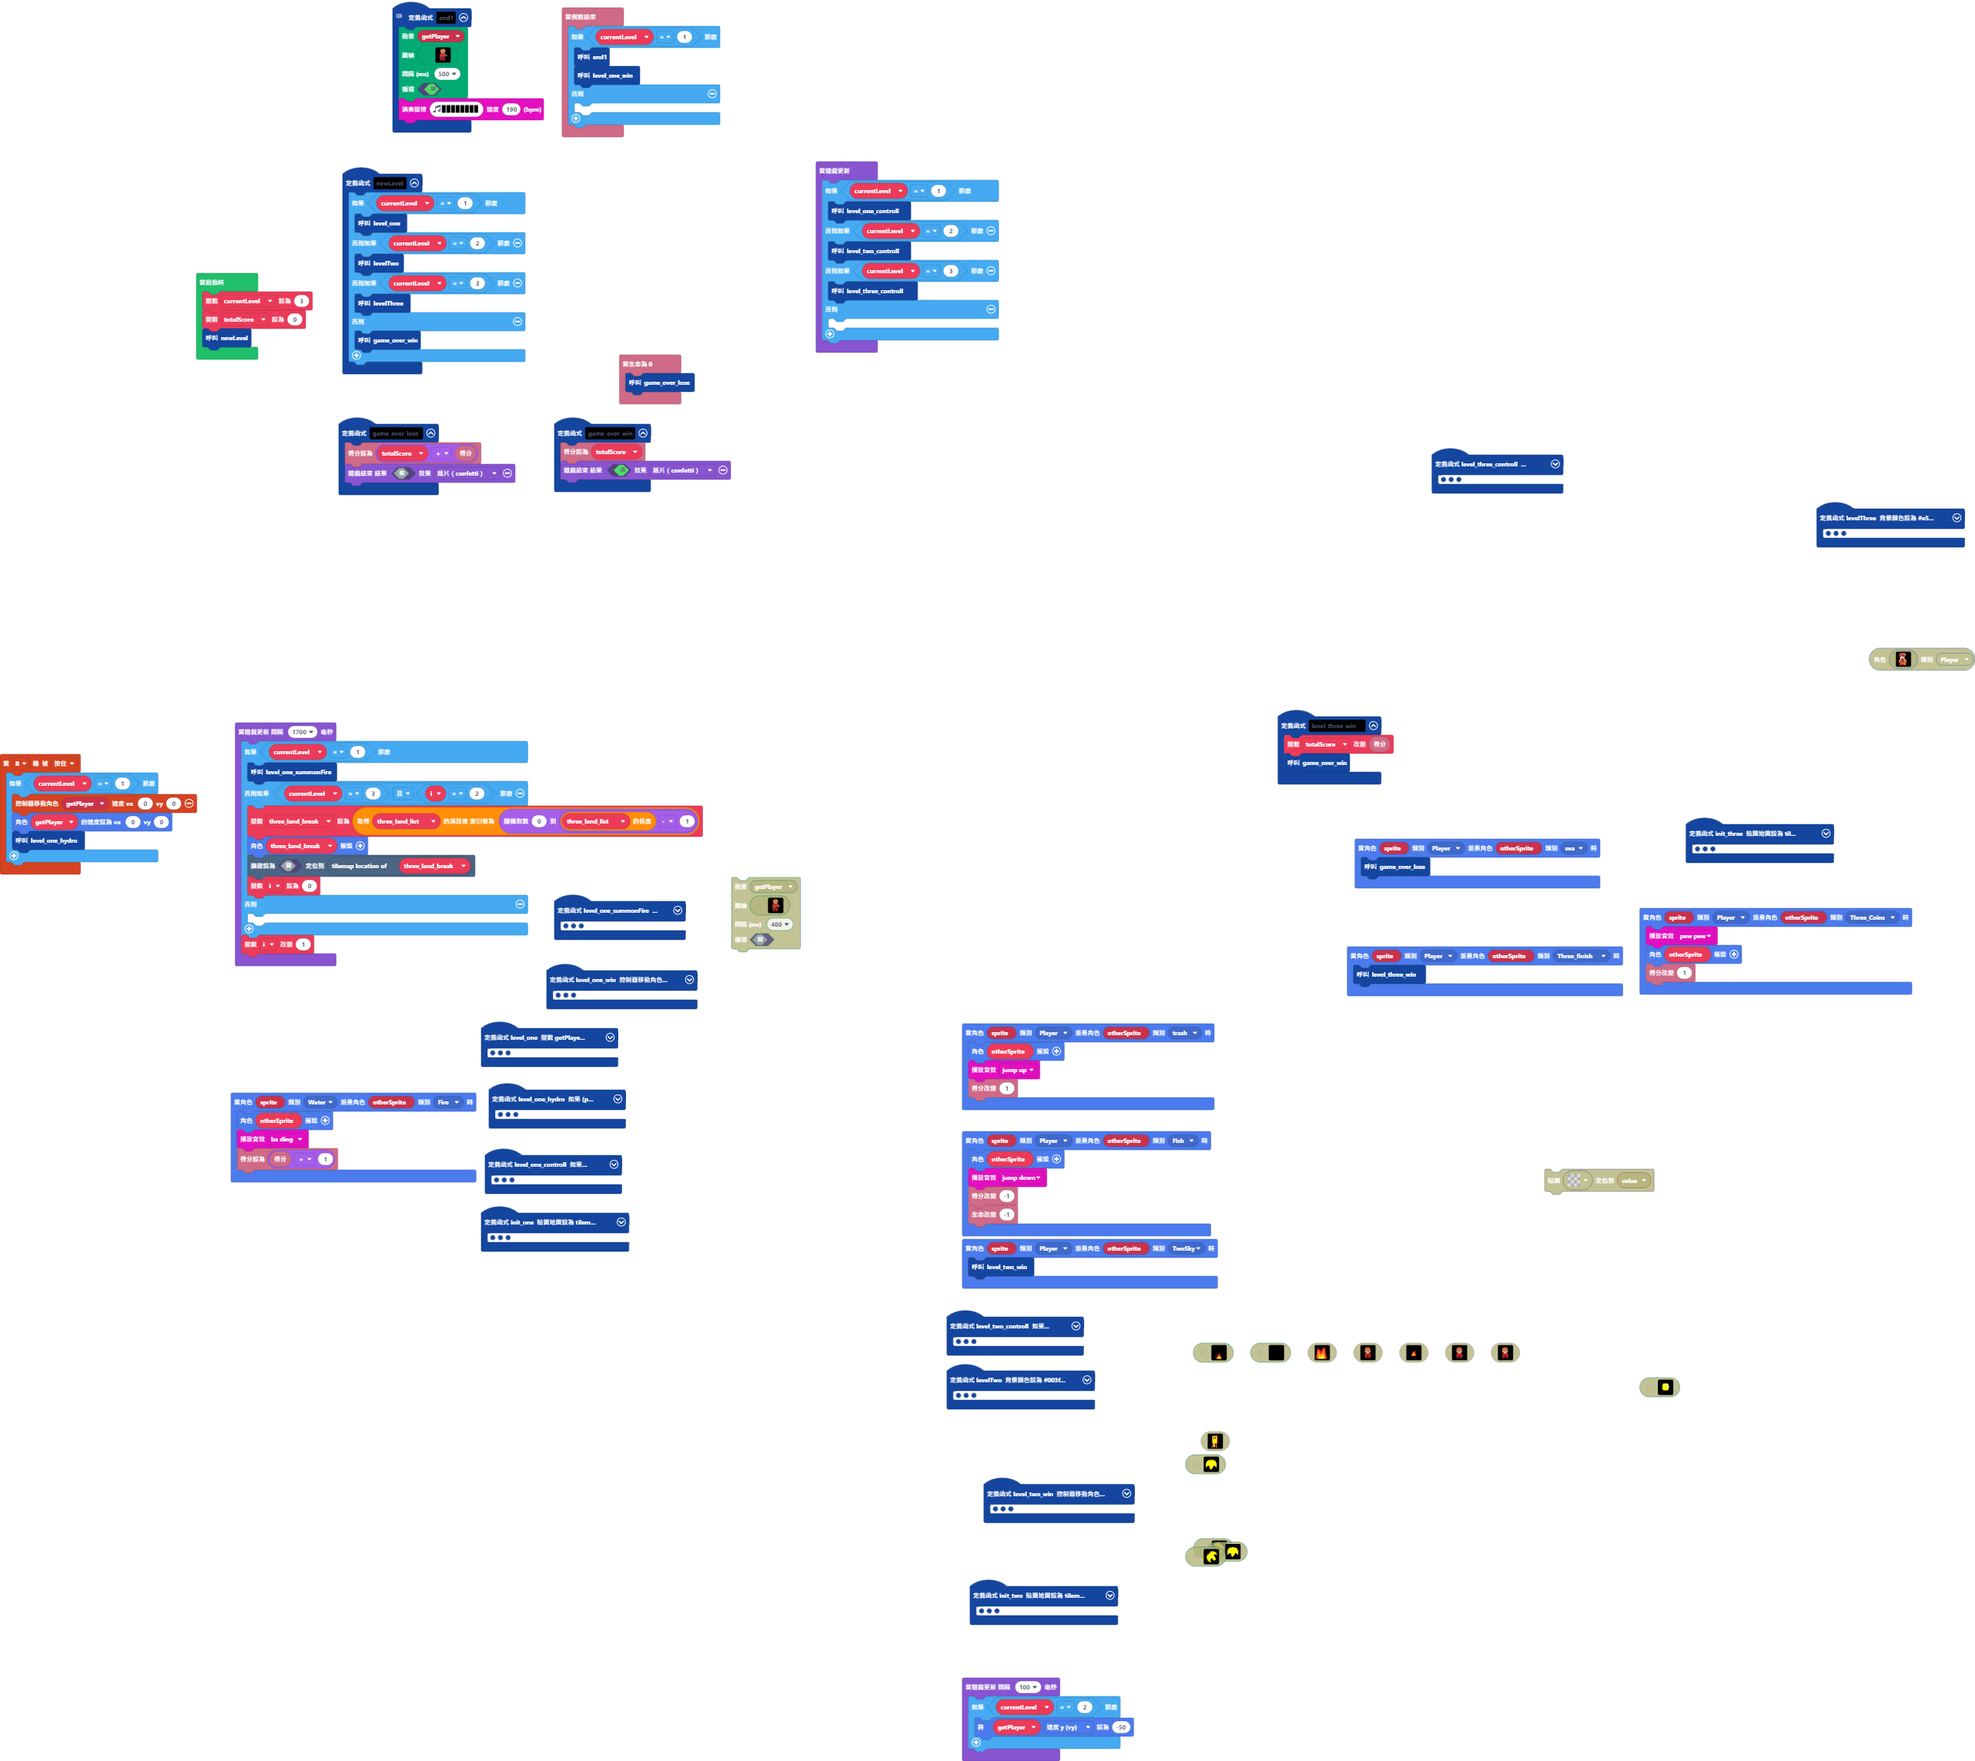
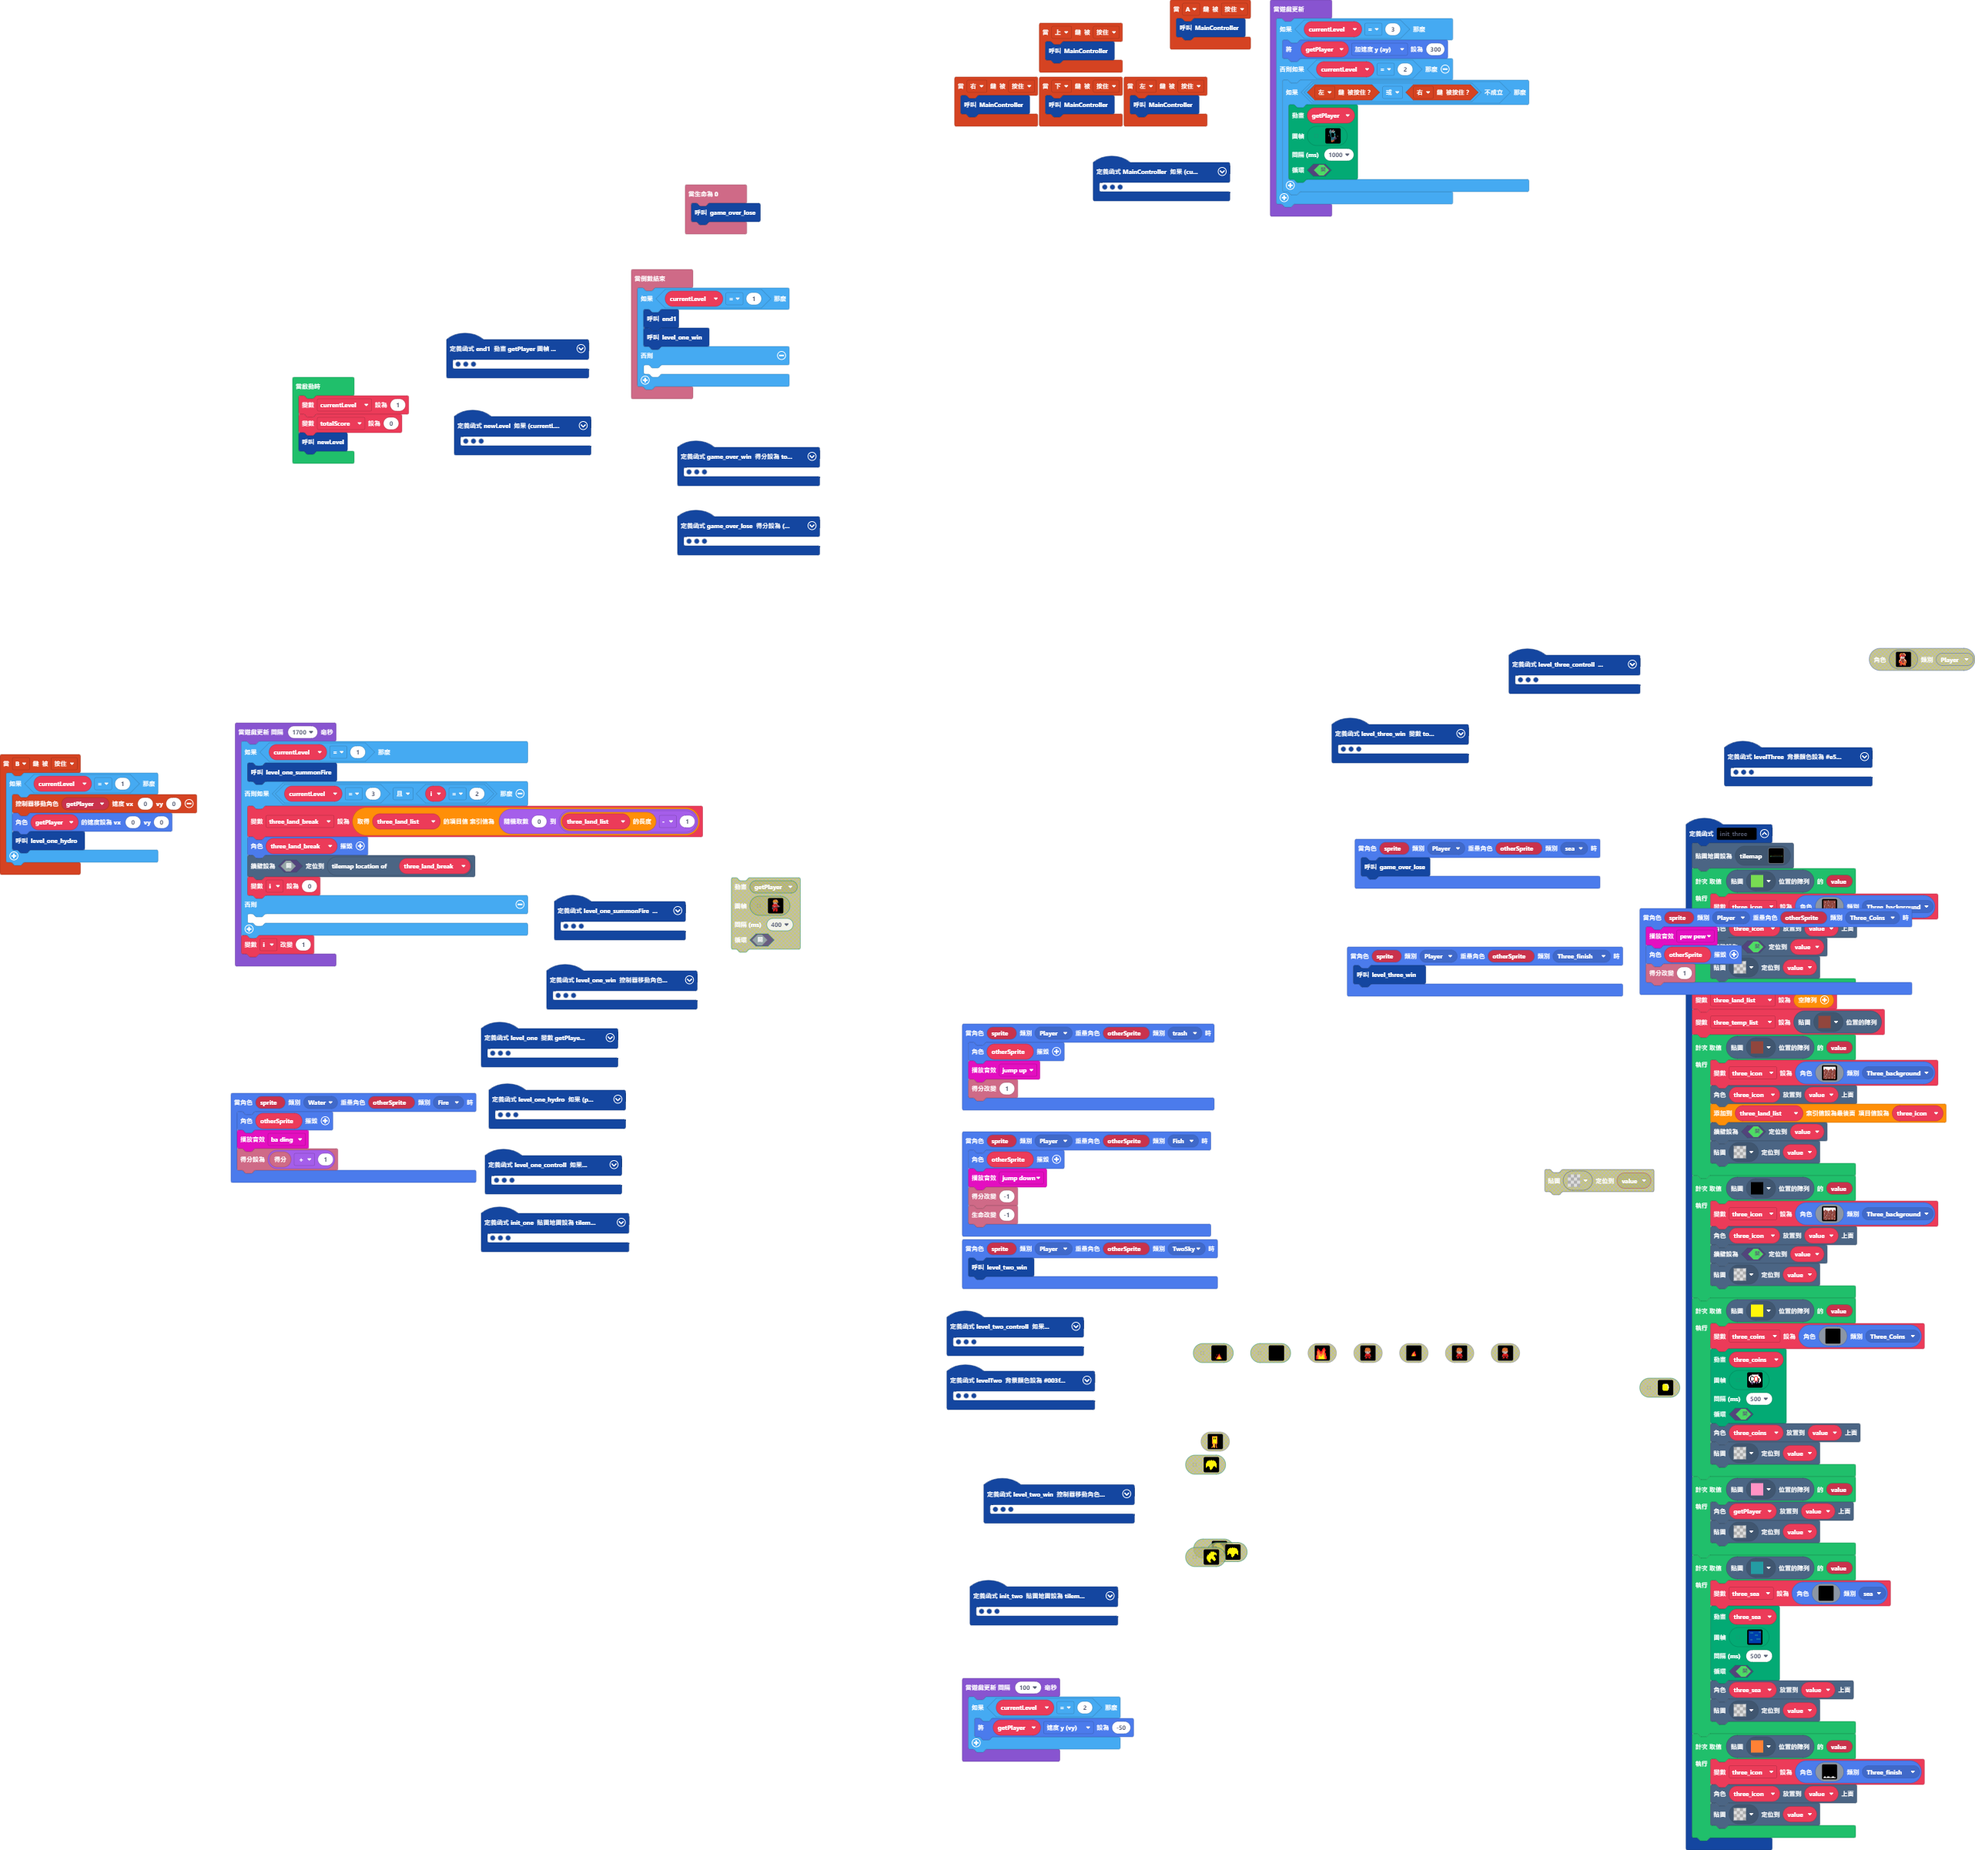
修改完成

diff --git a/tilemap.g.ts b/tilemap.g.ts
@@ -253,7 +253,11 @@ namespace myTiles {
 ................
 `, [myTiles.transparency16,myTiles.tile2,myTiles.tile4,myTiles.tile3,myTiles.tile1,myTiles.tile5,myTiles.tile6,myTiles.tile7], TileScale.Sixteen);
             case "層級6":
[1 lines of base64/hex data omitted]
+            case "層級6":return tiles.createTilemap(hex`500010000000000000000000000000000000000000000000000000000000000000000000000000000000000000000000000000000000000000000000000000000000000000000000000000000000000000000000000000000000000000000000000000000000000000000000000000000000000000000000000000000000000000000000000000000000000000000000000000000000000000000000000000000000000000000000000000000000000000000000000000000000000000000000000000000000000000000000000000000000000000000000000000000000000000000000000000000000000000000000000000000000000000000000000000000000000000000000000000000000000000000000000000000000000000000000000000000000000000000000000000000000000000000000000000000000000000000000000000000000000000000000000000000000000000000000000000000000000000000100000000000000000000000000000000000000000000000000000000000000000000000000000000000000000000000000000000000000000000000000000000000000000000000100000000000000000000000000000000000000000000030000000000000000030300000000000000000000000000000000000000000000000000000000000000000100000000000000000000000000000000000000000000000000000000000001000000000000000000010000000000000000000100000000000000010000000000000000000000000000000500000000000000000000000000000000000000000000000000000300000000000000000000000000000000000000000000000000000000000000000000030000000000000000000000000000000000000000000000000000000000000001000000030300000001000000000000000100000003030000000001000000000300000001000000000303000000000000000000000000000000000000000000000000000000000000000000000000000000000000000000000000000000000000000000000000000000000000000000000000000000000000000000000001000000000000000606060606070000000000000000000000000000010000000003030000000000000003030000000000000303000000000000000000030000000000000000030000010000000000000000000003030000070707070704070707070707070707070000000000000001000000000000000000000000000001000000000001000000000000000000000000010000000000000000000000000000030300000000000004040404040404040404040404040404000000000000000000000000000100000001000000000000000000000000000000010000000000000000000000000000000300000000000000000000000000000004040404040404040404040404000000000000000000030303000000000000000000000300030000000000030000000000000003030300000300000000000000000000030300000000000100000000000404040404040404040404000000000000000303000000000000000303000003030000000000000000000000000000000300000000000000000000000300000000000000000000000000000000000000040404040404040404040202020202020202020202020202020202020202020202020202020202020202020202020202020202020202020202020202020202020202020202020202020202020202020202040404`, img`
+................................................................................
+................................................................................
+................................................................................
+................................................................................
 ................................................................................
 ................................................................................
 ................................................................................

diff --git a/main.ts b/main.ts
@@ -343,7 +343,7 @@ function level_one () {
     )
     playerFace = 0
     init_one()
-    info.startCountdown(3)
+    info.startCountdown(36)
     info.setScore(0)
     scene.setBackgroundColor(9)
     scene.setBackgroundImage(img`
@@ -1314,6 +1314,9 @@ function game_over_lose () {
     info.setScore(totalScore + info.score())
     game.over(false, effects.confetti)
 }
+controller.A.onEvent(ControllerButtonEvent.Pressed, function () {
+    MainController()
+})
 function level_one_controll () {
     if (controller.left.isPressed()) {
         animation.runImageAnimation(
@@ -1592,6 +1595,17 @@ sprites.onOverlap(SpriteKind.Player, SpriteKind.Fish, function (sprite, otherSpr
     info.changeScoreBy(-1)
     info.changeLifeBy(-1)
 })
+function MainController () {
+    if (currentLevel == 1) {
+        level_one_controll()
+    } else if (currentLevel == 2) {
+        level_two_controll()
+    } else if (currentLevel == 3) {
+        level_three_controll()
+    } else {
+    	
+    }
+}
 function level_one_hydro () {
     if (playerFace == 0) {
         water = sprites.create(img`
@@ -2109,6 +2123,9 @@ sprites.onOverlap(SpriteKind.Player, SpriteKind.Three_Coins, function (sprite, o
     otherSprite.destroy()
     info.changeScoreBy(1)
 })
+controller.left.onEvent(ControllerButtonEvent.Pressed, function () {
+    MainController()
+})
 info.onCountdownEnd(function () {
     if (currentLevel == 1) {
         end1()
@@ -2360,6 +2377,9 @@ function level_three_controll () {
         getPlayer.ay = 300
     }
 }
+controller.up.onEvent(ControllerButtonEvent.Pressed, function () {
+    MainController()
+})
 controller.B.onEvent(ControllerButtonEvent.Pressed, function () {
     if (currentLevel == 1) {
         controller.moveSprite(getPlayer, 0, 0)
@@ -2393,6 +2413,9 @@ function level_two_win () {
         value.destroy()
     }
 }
+controller.right.onEvent(ControllerButtonEvent.Pressed, function () {
+    MainController()
+})
 info.onLifeZero(function () {
     game_over_lose()
 })
@@ -2645,6 +2668,9 @@ function newLevel () {
         game_over_win()
     }
 }
+controller.down.onEvent(ControllerButtonEvent.Pressed, function () {
+    MainController()
+})
 function game_over_win () {
     info.setScore(totalScore)
     game.over(true, effects.confetti)
@@ -2867,18 +2893,63 @@ let playerFace = 0
 let getPlayer: Sprite = null
 let totalScore = 0
 let currentLevel = 0
-currentLevel = 3
+currentLevel = 1
 totalScore = 0
 newLevel()
 game.onUpdate(function () {
-    if (currentLevel == 1) {
-        level_one_controll()
+    if (currentLevel == 3) {
+        getPlayer.ay = 300
     } else if (currentLevel == 2) {
-        level_two_controll()
-    } else if (currentLevel == 3) {
-        level_three_controll()
-    } else {
-    	
+        if (!(controller.left.isPressed() || controller.right.isPressed())) {
+            animation.runImageAnimation(
+            getPlayer,
+            [img`
+                ...dd...1.......
+                ...66.bbb.......
+                ..6b6dfdfd1.....
+                ..6b6ddddd6.....
+                ..66b666966.....
+                ...6fbfff6f.....
+                ...66fffff66....
+                ....6fffff96....
+                ....6fffff96....
+                .1..6fffff66....
+                ....6fffff6....1
+                ....6fffffdd....
+                ....f66866dcc...
+                .....66c66cccc..
+                .....66cc6cccc..
+                .....66686.cc...
+                .....166c4......
+                .....64624......
+                .....44424......
+                .....444........
+                `,img`
+                ..dd............
+                ..66..bbb.......
+                ..6b6dfdfd6.....
+                ..6b6ddddd6.....
+                ..66b666961.....
+                ...6fbfff6f.....
+                ...66fffff66....
+                ....6fffff96....
+                ....6fffff96....
+                ....6fffff966...
+                ....6fffff966...
+                ....6fffff6dd.1.
+                ..1.f66866fdcc..
+                .....66c66.cccc.
+                .....6cc66.cccc.
+                .....68666..cc..
+                .....4c666......
+                .....42646......
+                .....41444......
+                .......444......
+                `],
+            1000,
+            true
+            )
+        }
     }
 })
 game.onUpdateInterval(1700, function () {
